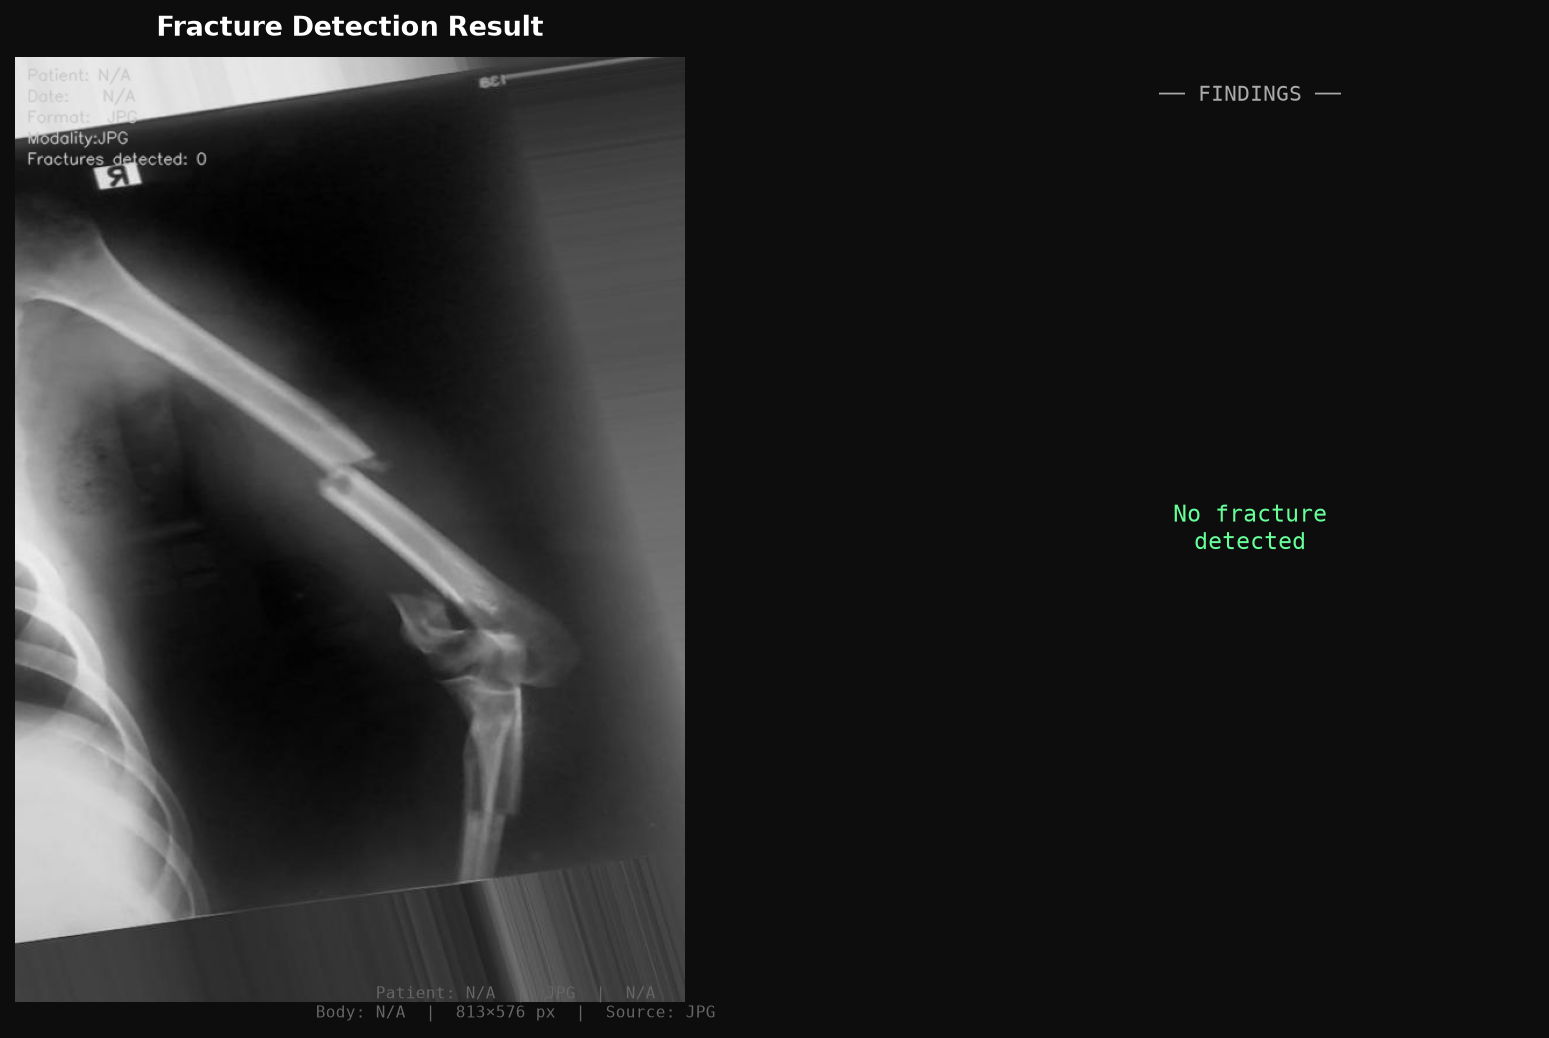
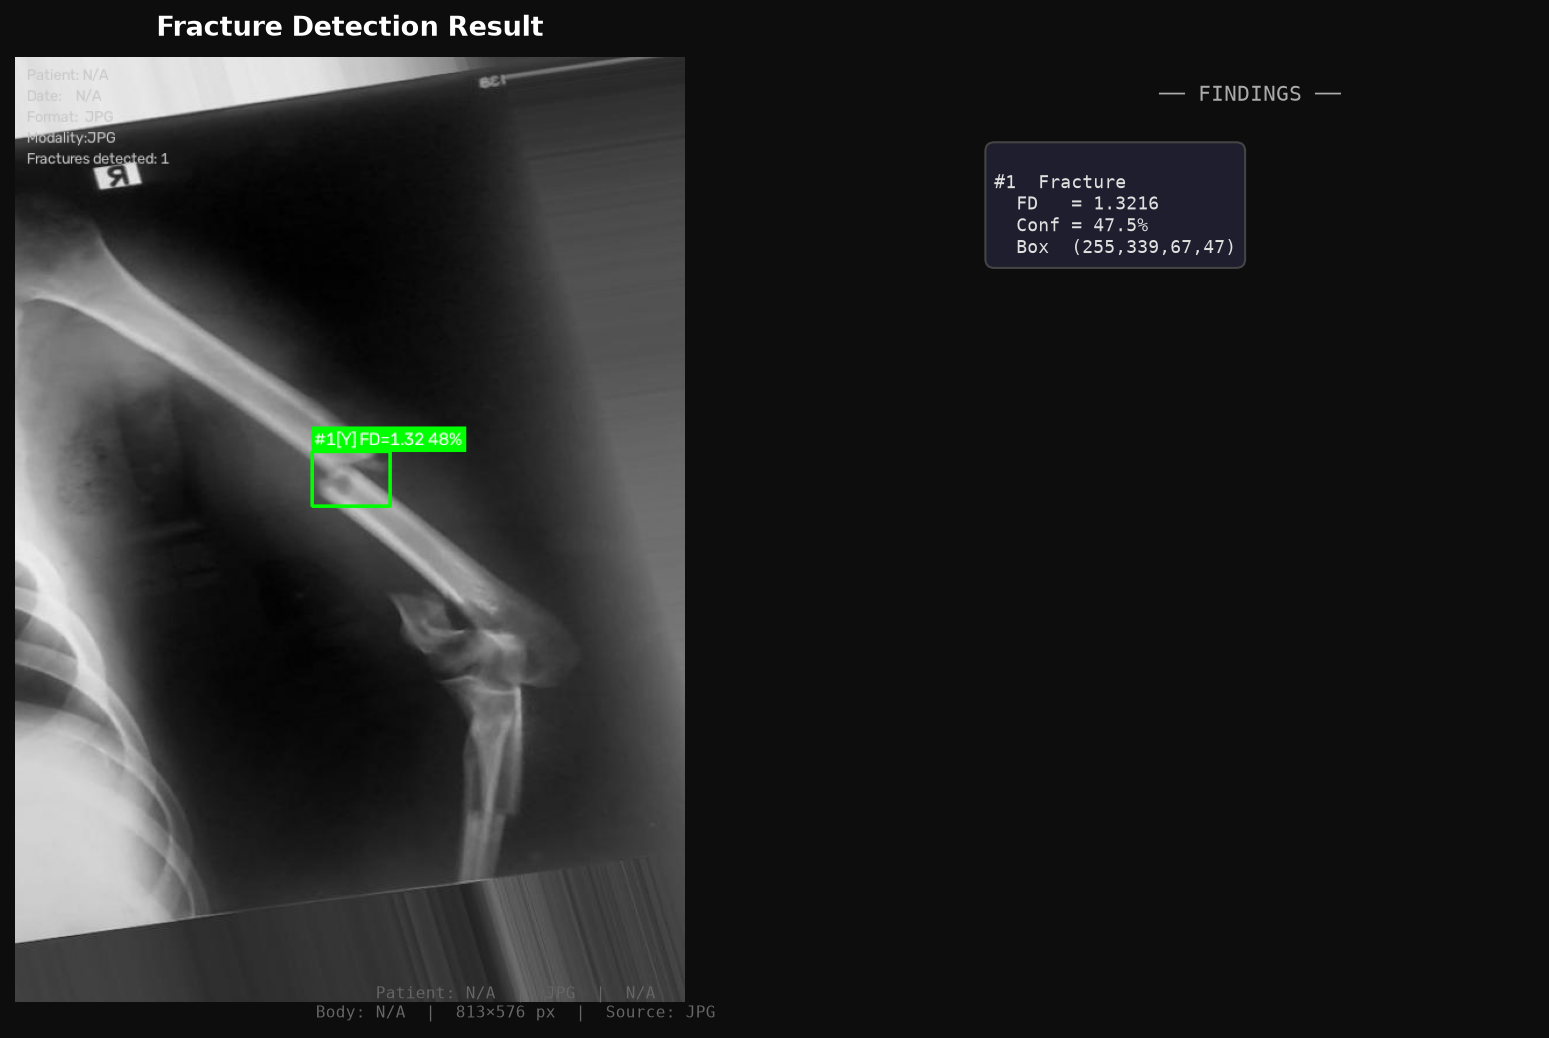
fix lễ tân chọn theo ca

diff --git a/src/main/resources/templates/receptionist/new-appointment.html b/src/main/resources/templates/receptionist/new-appointment.html
@@ -77,10 +77,13 @@
                             <div class="small text-muted mt-1">Mặc định là hôm nay, có thể chọn trong vòng 90 ngày tới.</div>
                         </div>
                         <div class="col-6">
-                            <label class="ms-label">Giờ khám</label>
-                            <input type="time" name="scheduledTime" class="form-control ms-input" min="06:00" max="21:00"
-                                   th:value="${formScheduledTime != null ? formScheduledTime : #temporals.format(#temporals.createNow(), 'HH:mm')}">
-                            <div class="small text-muted mt-1">Trong khung giờ hoạt động 06:00 - 21:00.</div>
+                            <label class="ms-label">Giờ khám (theo ca)</label>
+                            <select name="scheduledTime" class="form-select ms-input" required>
+                                <option th:each="slot : ${timeSlots}" th:value="${#temporals.format(slot, 'HH:mm')}"
+                                        th:text="${#temporals.format(slot, 'HH:mm')}"
+                                        th:selected="${(formScheduledTime != null ? formScheduledTime : defaultTimeSlot) == slot}">08:00</option>
+                            </select>
+                            <div class="small text-muted mt-1">Mỗi ca 30 phút, trong khung giờ hoạt động 06:00 - 21:00.</div>
                         </div>
                         <div class="col-12 d-grid mt-2">
                             <button type="submit" class="btn ms-btn ms-btn-primary text-white">

diff --git a/ai-service/app.py b/ai-service/app.py
@@ -1,5 +1,4 @@
-from fastapi import FastAPI, UploadFile, File
-import shutil
+from fastapi import FastAPI, UploadFile, File, Header, HTTPException, Depends
 import os
 import tempfile
 import base64
@@ -17,6 +16,14 @@ anfis_service = AnfisDiagnosisService()
 
 BASE_DIR = os.path.dirname(os.path.abspath(__file__))
 YOLO_MODEL_PATH = os.path.join(BASE_DIR, "YOLO", "FDetectModel_YOLO11_080626.pt")
+
+# Shared secret the Spring Boot app must send so this service isn't reachable
+# by anyone who can hit the host directly, bypassing all app-level auth.
+API_KEY = os.environ.get("AI_SERVICE_API_KEY", "dev-ai-key-change-me")
+
+ALLOWED_EXTENSIONS = {".png", ".jpg", ".jpeg", ".bmp", ".tif", ".tiff", ".dcm", ".dicom"}
+MAX_FILE_SIZE_BYTES = 20 * 1024 * 1024  # 20 MB
+
 
 class BoundingBox(BaseModel):
     x: int
@@ -49,36 +56,64 @@ class PredictResponse(BaseModel):
     fracture_detected: bool
     highest_confidence: float
 
[email redacted]("/predict")
-async def predict_fracture(file: UploadFile = File(...)):
-    # 1. Save uploaded file to a temporary file
-    ext = os.path.splitext(file.filename)[1]
+
+def verify_api_key(x_internal_api_key: Optional[str] = Header(default=None)):
+    if x_internal_api_key != API_KEY:
+        raise HTTPException(status_code=401, detail="Thiếu hoặc sai khoá xác thực nội bộ.")
+
+
+# Plain `def` (not `async def`): FastAPI runs sync path functions in a
+# worker threadpool automatically, so one slow/CPU-heavy analysis (OpenCV +
+# YOLO + ANFIS) doesn't block the event loop and serialize every other
+# concurrent upload behind it.
[email redacted]("/predict", response_model=PredictResponse)
+def predict_fracture(file: UploadFile = File(...), _auth: None = Depends(verify_api_key)):
+    ext = os.path.splitext(file.filename or "")[1].lower()
     if not ext:
-        ext = ".png" # default
-    
-    with tempfile.NamedTemporaryFile(delete=False, suffix=ext) as temp_in:
-        shutil.copyfileobj(file.file, temp_in)
-        temp_input_path = temp_in.name
+        ext = ".png"
+    if ext not in ALLOWED_EXTENSIONS:
+        raise HTTPException(status_code=400, detail=f"Định dạng file không được hỗ trợ: {ext}")
 
-    temp_output_path = temp_input_path + "_output.png"
-
+    # 1. Save uploaded file to a temporary file, enforcing a size cap while
+    # streaming so an oversized upload can't sit fully in memory/disk first.
+    temp_input_path = None
+    temp_output_path = None
     try:
-        # 2. Run detection
-        yolo_path = YOLO_MODEL_PATH if os.path.exists(YOLO_MODEL_PATH) else None
-        
-        regions = yolo_core.detect_fractures(
-            input_path=temp_input_path,
-            output_path=temp_output_path,
-            yolo_model_path=yolo_path,
-            yolo_conf_thresh=0.25,
-            verbose=False
-        )
+        with tempfile.NamedTemporaryFile(delete=False, suffix=ext) as temp_in:
+            temp_input_path = temp_in.name
+            total_bytes = 0
+            while True:
+                chunk = file.file.read(1024 * 1024)
+                if not chunk:
+                    break
+                total_bytes += len(chunk)
+                if total_bytes > MAX_FILE_SIZE_BYTES:
+                    raise HTTPException(status_code=413, detail="File ảnh vượt quá 20MB.")
+                temp_in.write(chunk)
 
-        # 3. Build ANFIS diagnosis support
-        img, _ = yolo_core.load_image(temp_input_path)
-        enhanced = yolo_core.preprocess(img)
-        diagnosis_inputs = build_diagnosis_features(img, enhanced, regions)
-        diagnosis = anfis_service.predict(diagnosis_inputs)
+        temp_output_path = temp_input_path + "_output.png"
+
+        # 2. Run detection
+        try:
+            yolo_path = YOLO_MODEL_PATH if os.path.exists(YOLO_MODEL_PATH) else None
+
+            regions = yolo_core.detect_fractures(
+                input_path=temp_input_path,
+                output_path=temp_output_path,
+                yolo_model_path=yolo_path,
+                yolo_conf_thresh=0.25,
+                verbose=False
+            )
+
+            # 3. Build ANFIS diagnosis support
+            img, _ = yolo_core.load_image(temp_input_path)
+            enhanced = yolo_core.preprocess(img)
+            diagnosis_inputs = build_diagnosis_features(img, enhanced, regions)
+            diagnosis = anfis_service.predict(diagnosis_inputs)
+        except HTTPException:
+            raise
+        except Exception as exc:
+            raise HTTPException(status_code=400, detail=f"Không thể đọc hoặc phân tích ảnh: {exc}")
 
         # 4. Read output image as base64
         encoded_image = None
@@ -100,7 +135,7 @@ async def predict_fracture(file: UploadFile = File(...)):
             if r.confidence > max_conf:
                 max_conf = r.confidence
 
-        response = PredictResponse(
+        return PredictResponse(
             status="success",
             fractures=fractures,
             diagnosis=PredictionSummary(**diagnosis),
@@ -109,14 +144,12 @@ async def predict_fracture(file: UploadFile = File(...)):
             highest_confidence=max_conf
         )
 
-        return response
-
     finally:
         # Cleanup temporary files
-        if os.path.exists(temp_input_path):
+        if temp_input_path and os.path.exists(temp_input_path):
             os.remove(temp_input_path)
-        if os.path.exists(temp_output_path):
+        if temp_output_path and os.path.exists(temp_output_path):
             os.remove(temp_output_path)
 
 # Run instructions:
-# uvicorn app:app --host 0.0.0.0 --port 8000
+# uvicorn app:app --host 127.0.0.1 --port 8000

diff --git a/src/main/java/com/example/mediscanauth/controller/receptionist/ReceptionistDashboardController.java b/src/main/java/com/example/mediscanauth/controller/receptionist/ReceptionistDashboardController.java
@@ -232,7 +232,34 @@ public class ReceptionistDashboardController {
     public String newWalkInForm(Model model) {
         model.addAttribute("doctorsOnDuty", userRepository.findByRoleRoleNameInAndStatusOrderByFullNameAsc(
                 DOCTOR_ROLE_NAMES, "ACTIVE"));
+        model.addAttribute("timeSlots", buildTimeSlots());
+        model.addAttribute("defaultTimeSlot", roundUpToSlot(LocalTime.now()));
         return "receptionist/new-appointment";
+    }
+
+    /**
+     * Fixed 30-minute booking slots (06:00, 06:30, ... 20:30) so walk-ins
+     * always land on the same grid the doctor-conflict check uses, instead
+     * of letting the receptionist type an arbitrary time like 09:07.
+     */
+    private List<LocalTime> buildTimeSlots() {
+        List<LocalTime> slots = new ArrayList<>();
+        for (LocalTime t = SCHEDULE_OPEN; t.isBefore(SCHEDULE_CLOSE); t = t.plusMinutes(SCHEDULE_SLOT_MINUTES)) {
+            slots.add(t);
+        }
+        return slots;
+    }
+
+    private LocalTime roundUpToSlot(LocalTime time) {
+        if (time.isBefore(SCHEDULE_OPEN)) {
+            return SCHEDULE_OPEN;
+        }
+        long minutesFromOpen = Duration.between(SCHEDULE_OPEN, time).toMinutes();
+        long roundedUp = ((minutesFromOpen + SCHEDULE_SLOT_MINUTES - 1) / SCHEDULE_SLOT_MINUTES) * SCHEDULE_SLOT_MINUTES;
+        LocalTime slot = SCHEDULE_OPEN.plusMinutes(roundedUp);
+        return slot.isAfter(SCHEDULE_CLOSE.minusMinutes(SCHEDULE_SLOT_MINUTES))
+                ? SCHEDULE_CLOSE.minusMinutes(SCHEDULE_SLOT_MINUTES)
+                : slot;
     }
 
     @PostMapping("/receptionist/appointments/walk-in")

diff --git a/src/main/java/com/example/mediscanauth/service/impl/ImagingRecordServiceImpl.java b/src/main/java/com/example/mediscanauth/service/impl/ImagingRecordServiceImpl.java
@@ -14,10 +14,12 @@ import com.fasterxml.jackson.databind.ObjectMapper;
 import org.springframework.core.io.ByteArrayResource;
 import org.springframework.data.domain.Page;
 import org.springframework.data.domain.Pageable;
+import org.springframework.beans.factory.annotation.Value;
 import org.springframework.http.HttpEntity;
 import org.springframework.http.HttpHeaders;
 import org.springframework.http.MediaType;
 import org.springframework.http.ResponseEntity;
+import org.springframework.http.client.SimpleClientHttpRequestFactory;
 import org.springframework.stereotype.Service;
 import org.springframework.transaction.annotation.Transactional;
 import org.springframework.util.LinkedMultiValueMap;
@@ -42,8 +44,19 @@ public class ImagingRecordServiceImpl implements ImagingRecordService {
     private static final List<String> ACTIVE_QUEUE_STATUSES = List.of("PENDING_AI", "AI_DONE", "AI_ANALYZED",
             "PENDING_DOCTOR");
     private static final String UPLOAD_DIR = "src/main/resources/static/uploads/";
-    private static final String AI_SERVICE_URL = "http://localhost:8000/predict";
     private static final int LEGACY_TEXT_COLUMN_LIMIT = 490;
+    // ai-service does real CPU work (YOLO + classical CV + ANFIS); a low read
+    // timeout would false-positive on legitimate slow analyses, but it must
+    // still be bounded so a hung ai-service can't hold this transaction's DB
+    // connection open forever.
+    private static final int AI_CONNECT_TIMEOUT_MS = 5_000;
+    private static final int AI_READ_TIMEOUT_MS = 45_000;
+
+    @Value("${ai.service.url}")
+    private String aiServiceUrl;
+
+    @Value("${ai.service.api-key}")
+    private String aiServiceApiKey;
 
     private final ImagingRecordRepository imagingRecordRepository;
     private final PatientRepository patientRepository;
@@ -60,7 +73,10 @@ public class ImagingRecordServiceImpl implements ImagingRecordService {
         this.userAccountService = userAccountService;
         this.patientRepository = patientRepository;
         this.userRepository = userRepository;
-        this.restTemplate = new RestTemplate();
+        SimpleClientHttpRequestFactory requestFactory = new SimpleClientHttpRequestFactory();
+        requestFactory.setConnectTimeout(AI_CONNECT_TIMEOUT_MS);
+        requestFactory.setReadTimeout(AI_READ_TIMEOUT_MS);
+        this.restTemplate = new RestTemplate(requestFactory);
         this.objectMapper = new ObjectMapper();
     }
 
@@ -384,6 +400,7 @@ public class ImagingRecordServiceImpl implements ImagingRecordService {
     private void applyAiAnalysis(ImagingRecord record, Path uploadPath, byte[] fileBytes) {
         HttpHeaders headers = new HttpHeaders();
         headers.setContentType(MediaType.MULTIPART_FORM_DATA);
+        headers.set("X-Internal-Api-Key", aiServiceApiKey);
 
         MultiValueMap<String, Object> body = new LinkedMultiValueMap<>();
         body.add("file", new ByteArrayResource(fileBytes) {
@@ -395,7 +412,7 @@ public class ImagingRecordServiceImpl implements ImagingRecordService {
 
         try {
             ResponseEntity<String> response = restTemplate.postForEntity(
-                    AI_SERVICE_URL, new HttpEntity<>(body, headers), String.class);
+                    aiServiceUrl, new HttpEntity<>(body, headers), String.class);
 
             if (!response.getStatusCode().is2xxSuccessful() || response.getBody() == null) {
                 markAiFailed(record, "AI service không trả về kết quả hợp lệ.");

diff --git a/src/main/java/com/example/mediscanauth/service/impl/PatientWorkflowServiceImpl.java b/src/main/java/com/example/mediscanauth/service/impl/PatientWorkflowServiceImpl.java
@@ -7,11 +7,13 @@ import com.example.mediscanauth.service.PatientWorkflowService;
 import com.example.mediscanauth.service.UserAccountService;
 import com.fasterxml.jackson.databind.JsonNode;
 import com.fasterxml.jackson.databind.ObjectMapper;
+import org.springframework.beans.factory.annotation.Value;
 import org.springframework.core.io.ByteArrayResource;
 import org.springframework.http.HttpEntity;
 import org.springframework.http.HttpHeaders;
 import org.springframework.http.MediaType;
 import org.springframework.http.ResponseEntity;
+import org.springframework.http.client.SimpleClientHttpRequestFactory;
 import org.springframework.stereotype.Service;
 import org.springframework.transaction.annotation.Transactional;
 import org.springframework.util.LinkedMultiValueMap;
@@ -37,16 +39,25 @@ public class PatientWorkflowServiceImpl implements PatientWorkflowService {
     private final RestTemplate restTemplate;
     private final ObjectMapper objectMapper;
 
-    // TODO: move to application.properties
     private static final String UPLOAD_DIR = "src/main/resources/static/uploads/";
-    private static final String AI_SERVICE_URL = "http://localhost:8000/predict";
     private static final int LEGACY_TEXT_COLUMN_LIMIT = 900;
+    private static final int AI_CONNECT_TIMEOUT_MS = 5_000;
+    private static final int AI_READ_TIMEOUT_MS = 45_000;
+
+    @Value("${ai.service.url}")
+    private String aiServiceUrl;
+
+    @Value("${ai.service.api-key}")
+    private String aiServiceApiKey;
 
     public PatientWorkflowServiceImpl(ImagingRecordRepository imagingRecordRepository,
                                       UserAccountService userAccountService) {
         this.imagingRecordRepository = imagingRecordRepository;
         this.userAccountService = userAccountService;
-        this.restTemplate = new RestTemplate();
+        SimpleClientHttpRequestFactory requestFactory = new SimpleClientHttpRequestFactory();
+        requestFactory.setConnectTimeout(AI_CONNECT_TIMEOUT_MS);
+        requestFactory.setReadTimeout(AI_READ_TIMEOUT_MS);
+        this.restTemplate = new RestTemplate(requestFactory);
         this.objectMapper = new ObjectMapper();
     }
 
@@ -69,7 +80,8 @@ public class PatientWorkflowServiceImpl implements PatientWorkflowService {
             // 2. Send to AI Service
             HttpHeaders headers = new HttpHeaders();
             headers.setContentType(MediaType.MULTIPART_FORM_DATA);
-            
+            headers.set("X-Internal-Api-Key", aiServiceApiKey);
+
             MultiValueMap<String, Object> body = new LinkedMultiValueMap<>();
             body.add("file", new ByteArrayResource(fileBytes) {
                 @Override
@@ -87,7 +99,7 @@ public class PatientWorkflowServiceImpl implements PatientWorkflowService {
 
             ResponseEntity<String> response = null;
             try {
-                response = restTemplate.postForEntity(AI_SERVICE_URL, requestEntity, String.class);
+                response = restTemplate.postForEntity(aiServiceUrl, requestEntity, String.class);
             } catch (Exception e) {
                 record.setFileName(originalFileName);
                 record.setAiPrediction(limitText("Lỗi kết nối AI: " + e.getMessage(), LEGACY_TEXT_COLUMN_LIMIT));

diff --git a/src/main/java/com/example/mediscanauth/service/impl/ReceptionistServiceImpl.java b/src/main/java/com/example/mediscanauth/service/impl/ReceptionistServiceImpl.java
@@ -319,12 +319,28 @@ public class ReceptionistServiceImpl implements ReceptionistService {
     }
 
     private LocalTime validateScheduledTime(LocalTime scheduledTime) {
-        LocalTime time = scheduledTime != null ? scheduledTime : LocalTime.now();
+        LocalTime time = scheduledTime != null ? scheduledTime : roundUpToSlot(LocalTime.now());
         if (time.isBefore(CLINIC_OPEN) || time.isAfter(CLINIC_CLOSE)) {
             throw new InvalidFieldException(
                     "Giờ khám phải trong khung giờ hoạt động của phòng khám (" + CLINIC_OPEN + " - " + CLINIC_CLOSE + ").");
         }
+        long minutesFromOpen = java.time.Duration.between(CLINIC_OPEN, time).toMinutes();
+        if (minutesFromOpen % SLOT_MINUTES != 0) {
+            throw new InvalidFieldException(
+                    "Giờ khám phải chọn theo ca " + SLOT_MINUTES + " phút (VD: 08:00, 08:30), không nhập giờ lẻ.");
+        }
         return time;
+    }
+
+    /** Rounds a raw clock time up to the next bookable slot boundary. */
+    private LocalTime roundUpToSlot(LocalTime time) {
+        if (time.isBefore(CLINIC_OPEN)) {
+            return CLINIC_OPEN;
+        }
+        long minutesFromOpen = java.time.Duration.between(CLINIC_OPEN, time).toMinutes();
+        long roundedUp = ((minutesFromOpen + SLOT_MINUTES - 1) / SLOT_MINUTES) * SLOT_MINUTES;
+        LocalTime slot = CLINIC_OPEN.plusMinutes(roundedUp);
+        return slot.isAfter(CLINIC_CLOSE) ? CLINIC_CLOSE : slot;
     }
 
     private User findDoctorOrThrow(Long doctorId) {